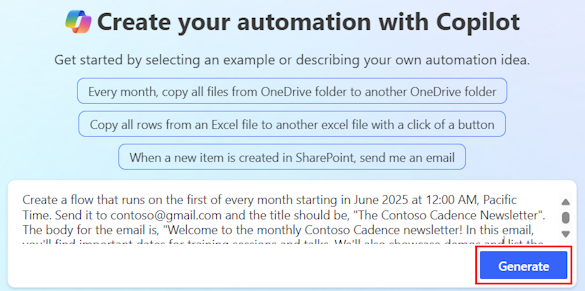
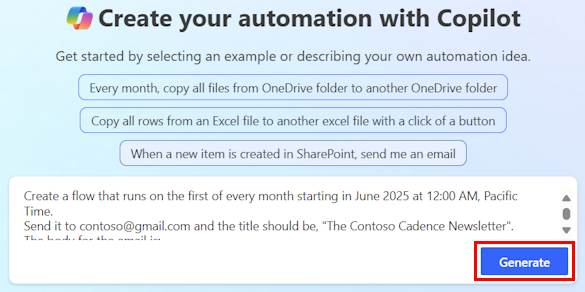
small-edits

Changed region(s): [[0.0, 0.1546, 0.9846, 0.6186], [0.0, 0.6495, 0.9846, 0.9897], [0.0923, 0.0, 0.8923, 0.1237]]

diff --git a/articles/flows-designer.md b/articles/flows-designer.md
@@ -38,15 +38,19 @@ Legend:
 1. **Flow name**: The name of your flow, which you can edit at any time. To do this, select the flow name, enter a new name, and then select **Save** on the command bar.
 1. [**Undo and Redo buttons**](#undo-and-redo): Reverse or reinstate modifications you made to the flow.
 1. [**Send feedback button**](#send-feedback): *(New designer only)* Send us feedback about your flow creation experience or general comments about the AI-powered designer.
+
+    (*Classic designer only*) Select the smiley face icon in the title bar.
+
 1. **Flow checker button**: Check your flow for errors.
+1. **Version history button**: *(New designer only)* Track and manage changes made to your flows over time. It records every modification, enabling you to view previous versions, compare changes, and, if necessary, revert to an earlier version.
 1. [**Save button**](#save-button): Save your flow.
 1. [**Test button**](#test-button): Test your flow to make sure that it works as you intended.
 1. [**Copilot button**](create-cloud-flow-using-copilot.md): *(New designer only)* Show or hide the Copilot pane. The Copilot pane appears by default when the AI-powered designer opens.
 1. **New designer toggle**: Switch between the new designer and the classic designer. Learn more in [Identify differences between the new designer and the classic designer](#identify-differences-between-the-new-designer-and-the-classic-designer).
-1. **Action/trigger name**: *(New designer only)* The action or trigger card that is selected in your flow in the center of the page (the [*canvas*](#canvas)).
+1. **Action/trigger name**: *(New designer only)* The action or trigger card that is selected in your flow in the center of the page (the [canvas](#canvas)).
 1. [**More commands button**](#more-commands): *(New designer only)* Add a note to the selected card, *pin* an action, or delete the card. There are two ways to pin an action. Learn more in [View two action panes simultaneously](#view-two-action-panes-simultaneously).
 1. **Collapse button**: *(New designer only)* Hide the pane. When the pane is collapsed, the **Expand** button (**>>**) appears in the upper-right corner. Select it to show the pane again.
-1. [**Configuration pane**](#configuration-pane): *(New designer only)* After you select a card to configure on the canvas, the configuration pane opens on the left side of the AI-powered designer.
+1. [**Configuration pane**](#configuration-pane): *(New designer only)* After you select a card to configure on the [canvas](#canvas), the configuration pane opens on the left side of the AI-powered designer.
 1. [**Canvas**](#canvas): The canvas is where you build your flow.
 1. [**Copilot pane**](create-cloud-flow-using-copilot.md): *(New designer only)* Copilot stays with you during your entire editing journey. It can help you update and make changes to your flow based on your conversational-style prompt. It can also help answer flow-related and product-related questions.
 
@@ -104,7 +108,7 @@ Select **Pin action** to pin the card to the top of the configuration pane. This
 
 ## Configuration pane
 
-*(New designer only)* When you select the plus (+) icon on the canvas, the _Add action_ view for adding actions to your flow appears (for example, **Send email**, **Get Dataverse rows**, **Initialize variable**, and more).
+*(New designer only)* When you select the plus (+) icon on the [canvas](#canvas), the _Add action_ view for adding actions to your flow appears (for example, **Send email**, **Get Dataverse rows**, **Initialize variable**, and more).
 
 :::image type="content" source="media/flows-designer/add-action.png" alt-text="Screenshot of the 'Add an action' pane.":::
 
@@ -146,7 +150,7 @@ On the **Settings** tab, you can set the action timeout, network retry policy, h
 
 ### Code View
 
-To view the code behind any card in your flow, select the card on the canvas, and then select **Code View** in the configuration pane. As you customize the code on the [Parameters](#parameters) tab, you can view the new code on the **Code View** tab.
+To view the code behind any card in your flow, select the card on the [canvas](#canvas), and then select **Code View** in the configuration pane. As you customize the code on the [Parameters](#parameters) tab, you can view the new code on the **Code View** tab.
 
 The following screenshot shows an example of the code for the **Compose** action card.
 
@@ -162,7 +166,7 @@ To copy and paste an action, follow these steps.
 
     :::image type="content" source="media/flows-designer/copy-action.png" alt-text="Screenshot highlights copying an action.":::
 
-1. On the canvas, right-click on **+**, and then select **Paste an action**.
+1. On the [canvas](#canvas), right-click on **+**, and then select **Paste an action**.
 
     You can copy and paste actions across different parts of your flow, or in between flows.
 
@@ -180,13 +184,13 @@ For easy navigation, you can drag your flow on the canvas. You configure the act
 
 ### Drop zones
 
-The canvas contains AI-powered designer drop zones to help you easily drag cloud flow actions. Blue dashed lines represent the drop zones.
+The [canvas](#canvas) contains AI-powered designer drop zones to help you easily drag cloud flow actions. Blue dashed lines represent the drop zones.
 
 :::image type="content" source="media/flows-designer/drop-zone.png" alt-text="Screenshot of an action card and a drop-zone.":::
 
 ### Change how your flow displays
 
-Depending on the size and complexity of your cloud flow, you might want to adjust how it displays to make it easier to work with. The buttons appear at the bottom-left corner of the canvas when the configuration pane is closed.
+Depending on the size and complexity of your cloud flow, you might want to adjust how it displays to make it easier to work with. The buttons appear at the bottom-left corner of the [canvas](#canvas) when the configuration pane is closed.
 
 :::image type="content" source="media/flows-designer/tools-numbers.png" alt-text="Screenshot highlights the buttons that allow you to adjust how your flow displays on the canvas.":::
 
@@ -223,17 +227,17 @@ When static outputs are disabled, the toggle label is **Enable Static Result**. 
 
 One the new designer, you can pin an action pane so that you can open a second action pane next to it. This can be useful to compare two similar actions, or copy values across two actions.
 
-To pin an action, you can either right-click the action on the canvas and select **Pin action**. Alternatively, in the configuration pane, you can select **Pin action** in the **More commands** dropdown menu.
+To pin an action, you can either right-click the action on the [canvas](#canvas) and select **Pin action**. Alternatively, in the configuration pane, you can select **Pin action** in the **More commands** dropdown menu.
 
 :::image type="content" source="media/flows-designer/pin-option.png" alt-text="Screenshot of the 'Pin action' menu option.":::
 
 Once you pin an action, any other selected action panes are placed to the right of the pinned action pane.
 
-:::image type="content" source="media/flows-designer/pin-result.png" alt-text="Screenshot of a pinned action next to the open action pane.":::
+:::image type="content" source="media/flows-designer/pin-result.png" alt-text="Screenshot of a pinned action next to the open configuration pane.":::
 
 To unpin an action, you have two options:
 
-- Right-click the action on the canvas and select **Unpin action**.
+- Right-click the action on the [canvas](#canvas) and select **Unpin action**.
 - Select the **Pin** icon on the configuration pane.
 
 ## Identify differences between the new designer and the classic designer
@@ -272,7 +276,7 @@ You can now fix errors on this copy of the flow and save it. If you don't save t
 > - Clearing the browser cache deletes the saved copy of the flow from the browser.
 > - If you still need access to the unsaved flow copy, *don't* clear cache or cookies from the browser.
 
-## Limitations and known issues
+## Limitations and known issues in the new designer
 
 You might notice that some functionalities that were in the classic designer aren't available in the cloud flows designer yet. Currently, the designer doesn't support the following items:
 
@@ -290,7 +294,7 @@ You might notice that some functionalities that were in the classic designer are
 
 As we continue to innovate, we're introducing a new designer alongside our classic designer. While the classic designer remains valuable, the new designer is our future direction. While the classic designer isn't supported indefinitely, the new designer is becoming the primary interface.
 
-If you prefer to access features not yet available in the new designer, or encounter any limitations or known issues, you can temporarily revert to the classic designer. To do this, turn off the **New designer** toggle on the menu in the cloud flows designer.
+If you prefer to access features not yet available in the new designer, or encounter any [limitations or known issues](#limitations-and-known-issues-in-the-new-designer), you can temporarily revert to the classic designer. To do this, turn off the **New designer** toggle on the menu in the cloud flows designer.
 
 > [!NOTE]
 > The new cloud flows designer isn't yet available in integration surfaces such as Solution Explorer, Power Apps, Teams, and others.

diff --git a/articles/get-started-with-cloud-flows.md b/articles/get-started-with-cloud-flows.md
@@ -41,8 +41,10 @@ The example in this tutorial creates a scheduled flow. You can use similar steps
    Copy the following prompt and paste it into the Copilot field:
 
    ```copilot-prompt
-    Create a flow that runs on the first of every month starting in June 2025 at 12:00 AM, Pacific Time. Send it to contoso@gmail.com and the title should be, "The Contoso Cadence Newsletter". The body for the email is, "Welcome to the monthly Contoso Cadence newsletter! In this email, you'll find important dates for training sessions and talks. We'll also showcase demos and list the frequently asked questions for the month."
-
+    Create a flow that runs on the first of every month starting in June 2025 at 12:00 AM, Pacific Time. 
+    Send it to contoso@gmail.com and the title should be, "The Contoso Cadence Newsletter". 
+    The body for the email is:
+    "Welcome to the monthly Contoso Cadence newsletter! In this email, you'll find important dates for training sessions and talks. We'll also showcase demos and list the frequently asked questions for the month."
    ```
 
     Your prompt tells Copilot how to set up the recurrence of the email, who the recipient is, and the contents of the email's subject and body&mdash;all the information you need to create a working cloud flow.

diff --git a/articles/triggers-introduction.md b/articles/triggers-introduction.md
@@ -66,11 +66,11 @@ You work with triggers in the *designer*. [!INCLUDE[designer-tab-experience](./i
 1. Select the **Add a trigger** card. The **Add a trigger** pane opens.
 1. Search for the connector or trigger you want to use. You can search for a specific trigger by typing a name in the search field, or by selecting the right arrow (**>**) next to an option in a trigger category.
 
-    The **Add a trigger** pane is organized in the same way as the **Add an action** pane. Learn more in [Explore the cloud flows designer](flows-designer.md#action-configuration-pane).
+    The **Add a trigger** pane is organized in the same way as the **Add an action** pane. Learn more in [Explore the cloud flows designer](flows-designer.md#configuration-pane).
 
 1. Select the trigger that you want to use. The configuration pane opens to allow you to configure the trigger.
 1. Configure the trigger settings, if needed.
-1. Close the configuration panel and return to the flow designer by selecting **<<**.
+1. Close the configuration pane and return to the flow designer by selecting **<<**.
 
     The new trigger is now the first step in your flow.
 
